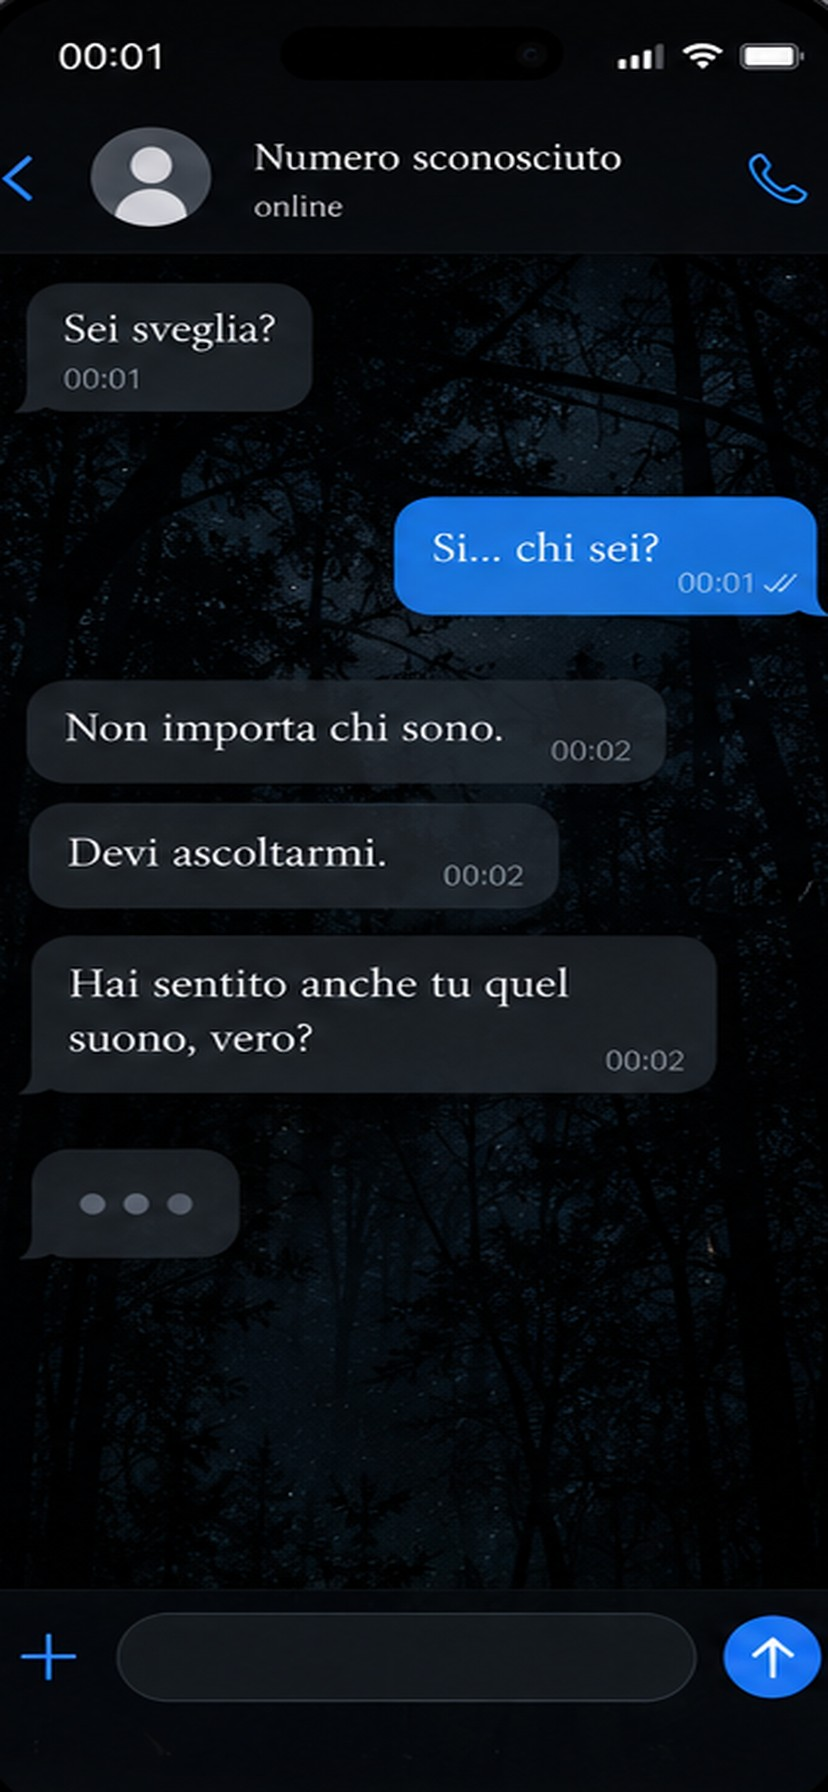
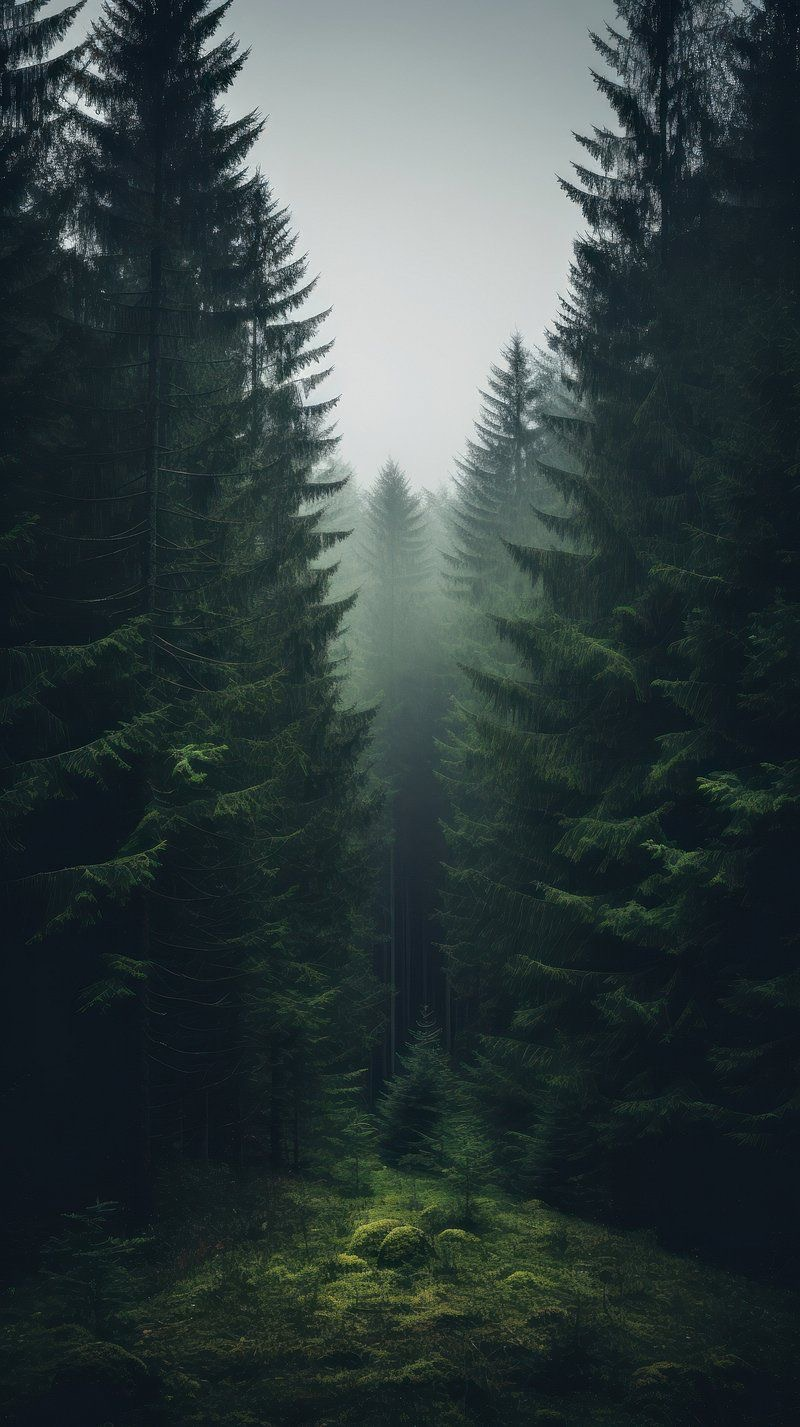
Add files via upload

diff --git a/index.html b/index.html
@@ -1,7 +1,7 @@
 <!doctype html>
 <html lang="it"><head><meta charset="utf-8"><meta name="viewport" content="width=device-width,initial-scale=1,viewport-fit=cover"><meta name="theme-color" content="#050607"><meta name="apple-mobile-web-app-capable" content="yes"><meta name="apple-mobile-web-app-status-bar-style" content="black-translucent"><link rel="manifest" href="./manifest.webmanifest"><link rel="stylesheet" href="./style.css"><title>00:01</title></head><body>
 <main id="game"><header><div class="contact"><span class="avatar" aria-hidden="true"></span><div><b>NUMERO SCONOSCIUTO</b><small id="status">offline</small></div></div><div class="headRight"><span id="clock">00:01:00</span><button id="menuBtn" class="menuBtn" type="button" aria-label="Menu">⋯</button></div></header><section id="chat" aria-live="polite"></section><section id="choices" aria-label="Risposte e azioni"></section></main>
-<div id="overlay"><div class="homeKicker">UNA NOTTE · UN NUMERO.</div><h1 id="ovTitle">00:01</h1><div id="ovText" class="homeIntro"><p>Sei a casa, da solo.</p><p>Il telefono vibra.<br>Un messaggio da un numero sconosciuto.</p></div><div class="signalCard"><div><small>WI-FI</small><strong>⚠ Connesso — Nessun accesso a Internet</strong></div><div><small>RETE CELLULARE</small><strong>▂___ Segnale debole — 1 tacca</strong></div></div><div id="battery" class="hidden"><div id="batteryIcon"><i></i></div><strong>0%</strong></div><button id="start">INIZIA <span>›</span></button><button id="notify">ATTIVA NOTIFICHE</button><button id="restart" class="hidden">RICOMINCIA</button><small id="ovSmall">Horror a bivi • v0.14 · UI 5</small></div>
+<div id="overlay"><div class="homeKicker">UNA NOTTE · UN NUMERO.</div><h1 id="ovTitle">00:01</h1><div id="ovText" class="homeIntro"><p>Sei a casa, da solo.</p><p>Il telefono vibra.<br>Un messaggio da un numero sconosciuto.</p></div><div class="signalCard"><div><small>WI-FI</small><strong>⚠ Connesso — Nessun accesso a Internet</strong></div><div><small>RETE CELLULARE</small><strong>▂___ Segnale debole — 1 tacca</strong></div></div><div id="battery" class="hidden"><div id="batteryIcon"><i></i></div><strong>0%</strong></div><button id="start">INIZIA <span>›</span></button><button id="notify">ATTIVA NOTIFICHE</button><button id="restart" class="hidden">RICOMINCIA</button><small id="ovSmall">Horror a bivi • v0.14 · UI 6</small></div>
 <div id="menuPanel" class="menuPanel hidden" role="dialog" aria-modal="true" aria-labelledby="menuTitle"><div class="menuCard"><h2 id="menuTitle">MENU</h2><p>Se la partita sembra bloccata, puoi riavviare il loop corrente.</p><button id="loopReset" type="button">RIAVVIA IL LOOP</button><button id="fullReset" class="dangerBtn" type="button">CANCELLA TUTTI I PROGRESSI</button><button id="menuClose" class="secondaryBtn" type="button">ANNULLA</button></div></div>
 <div id="confirmPanel" class="menuPanel hidden" role="dialog" aria-modal="true" aria-labelledby="confirmTitle"><div class="menuCard"><h2 id="confirmTitle">RIAVVIARE IL LOOP?</h2><p id="confirmText">I progressi di questo loop andranno persi.</p><button id="confirmYes" type="button">RIAVVIA</button><button id="confirmNo" class="secondaryBtn" type="button">ANNULLA</button></div></div>
 <script src="./app.js"></script></body></html>

diff --git a/sw.js b/sw.js
@@ -1,4 +1,4 @@
-const CACHE='non-aprire-v014-ui5-assets';const ASSETS=['./','./index.html','./style.css','./app.js','./manifest.webmanifest','./icon.svg','./bg-home.jpg','./bg-chat.jpg','./bg-chapter.jpg','./scene-window.jpg'];
+const CACHE='non-aprire-v014-ui6-assets';const ASSETS=['./','./index.html','./style.css','./app.js','./manifest.webmanifest','./icon.svg','./bg-home.jpg','./bg-chat.jpg','./bg-chapter.jpg','./scene-window.jpg'];
 self.addEventListener('install',e=>{self.skipWaiting();e.waitUntil(caches.open(CACHE).then(c=>c.addAll(ASSETS)))});
 self.addEventListener('activate',e=>{e.waitUntil(caches.keys().then(keys=>Promise.all(keys.filter(k=>k!==CACHE).map(k=>caches.delete(k)))).then(()=>self.clients.claim()))});
 self.addEventListener('fetch',e=>{if(e.request.mode==='navigate'){e.respondWith(fetch(e.request).then(r=>{const c=r.clone();caches.open(CACHE).then(x=>x.put('./index.html',c));return r}).catch(()=>caches.match('./index.html')));return}e.respondWith(fetch(e.request).then(r=>{const c=r.clone();caches.open(CACHE).then(x=>x.put(e.request,c));return r}).catch(()=>caches.match(e.request)))});

diff --git a/style.css b/style.css
@@ -40,7 +40,7 @@ main{background:#020406 url('./bg-chat.jpg') center/cover no-repeat}
 #chat{background:linear-gradient(rgba(2,5,8,.58),rgba(2,5,8,.76)),url('./bg-chat.jpg') center/cover no-repeat}
 .chapterEnd{background:linear-gradient(to bottom,rgba(0,0,0,.12),rgba(0,0,0,.84) 74%),url('./bg-chapter.jpg') center top/cover no-repeat}
 
-/* UI5 exact approved concept assets */
+/* UI6 exact approved concept assets */
 #overlay{background-position:center center!important;}
 #chat{background-position:center center!important;}
 .chapterEnd{background-position:center top!important;min-height:72vh;}
